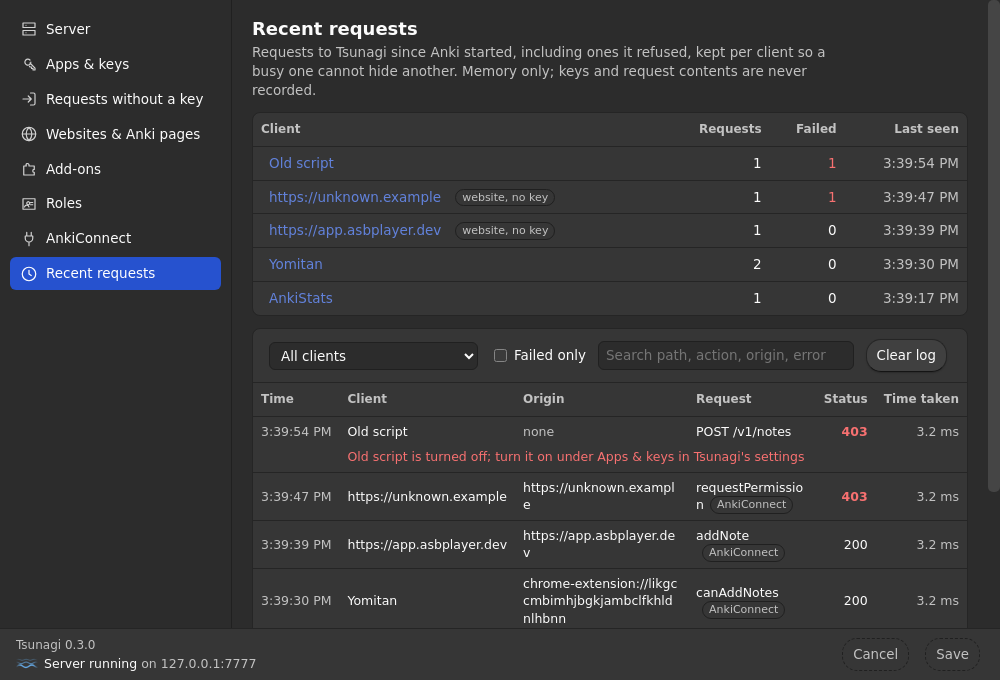
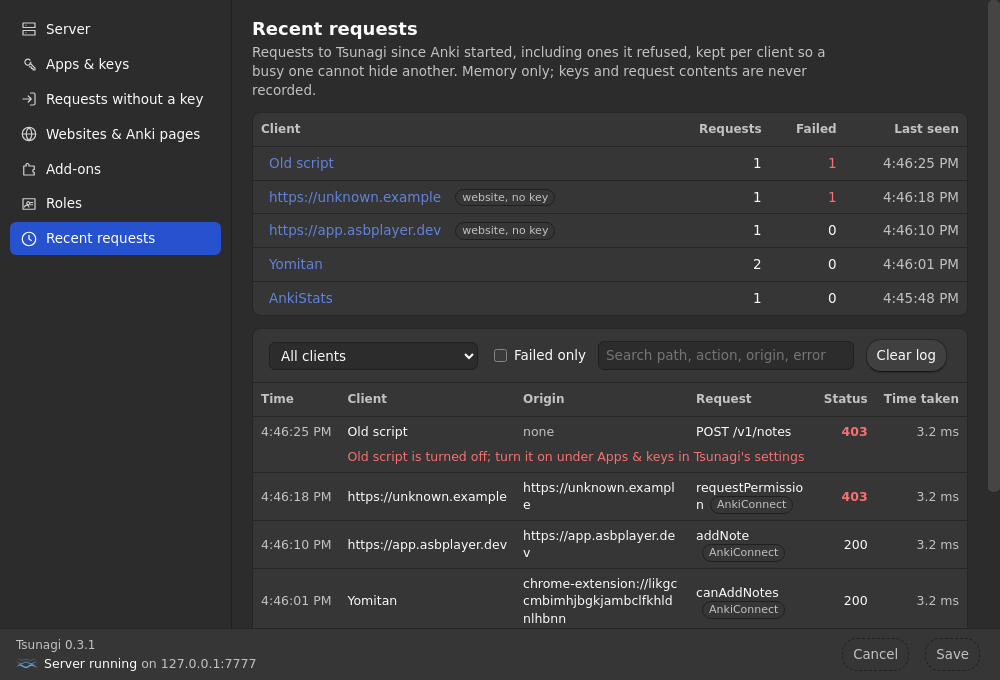
Release 0.3.1
Versions, the OpenAPI snapshot's version and the settings screenshots.

diff --git a/tsunagi/shared/version.py b/tsunagi/shared/version.py
@@ -1,4 +1,4 @@
 """Release and native API identifiers shared by discovery and OpenAPI."""
 
-ADDON_VERSION = "0.3.0"
+ADDON_VERSION = "0.3.1"
 API_VERSION = "v1"

diff --git a/tools/version.py b/tools/version.py
@@ -1,1 +1,1 @@
-VERSION = "0.3.0"
+VERSION = "0.3.1"
